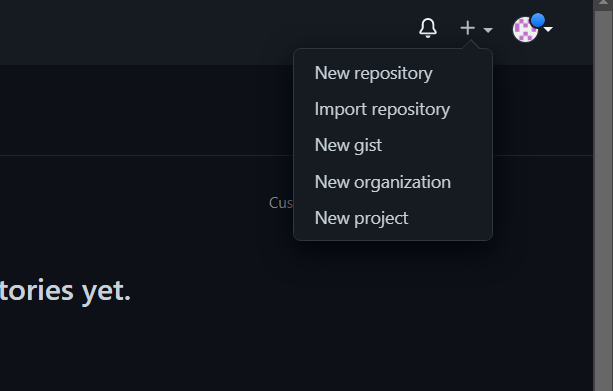
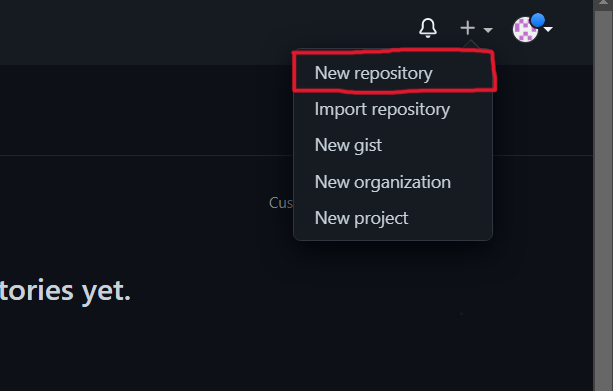
modifying coontent of step 12 and 13

Changed region(s): [[0.4649, 0.1228, 0.8369, 0.2455]]

diff --git a/f1.html b/f1.html
@@ -255,7 +255,7 @@
             <p class="heading">Provide details of repository on your account</p>
             <p>Now, to make a repository fill in the nescessary information.</p>
             <img src="static/point 13.png" alt="git init command">        
-            <br><br><br>
+            <p>Create new repository, by clicking the button at the end of the page.</p>
             <img src="static/point 14.png" alt="git init command">        
           </div>
       </div>
